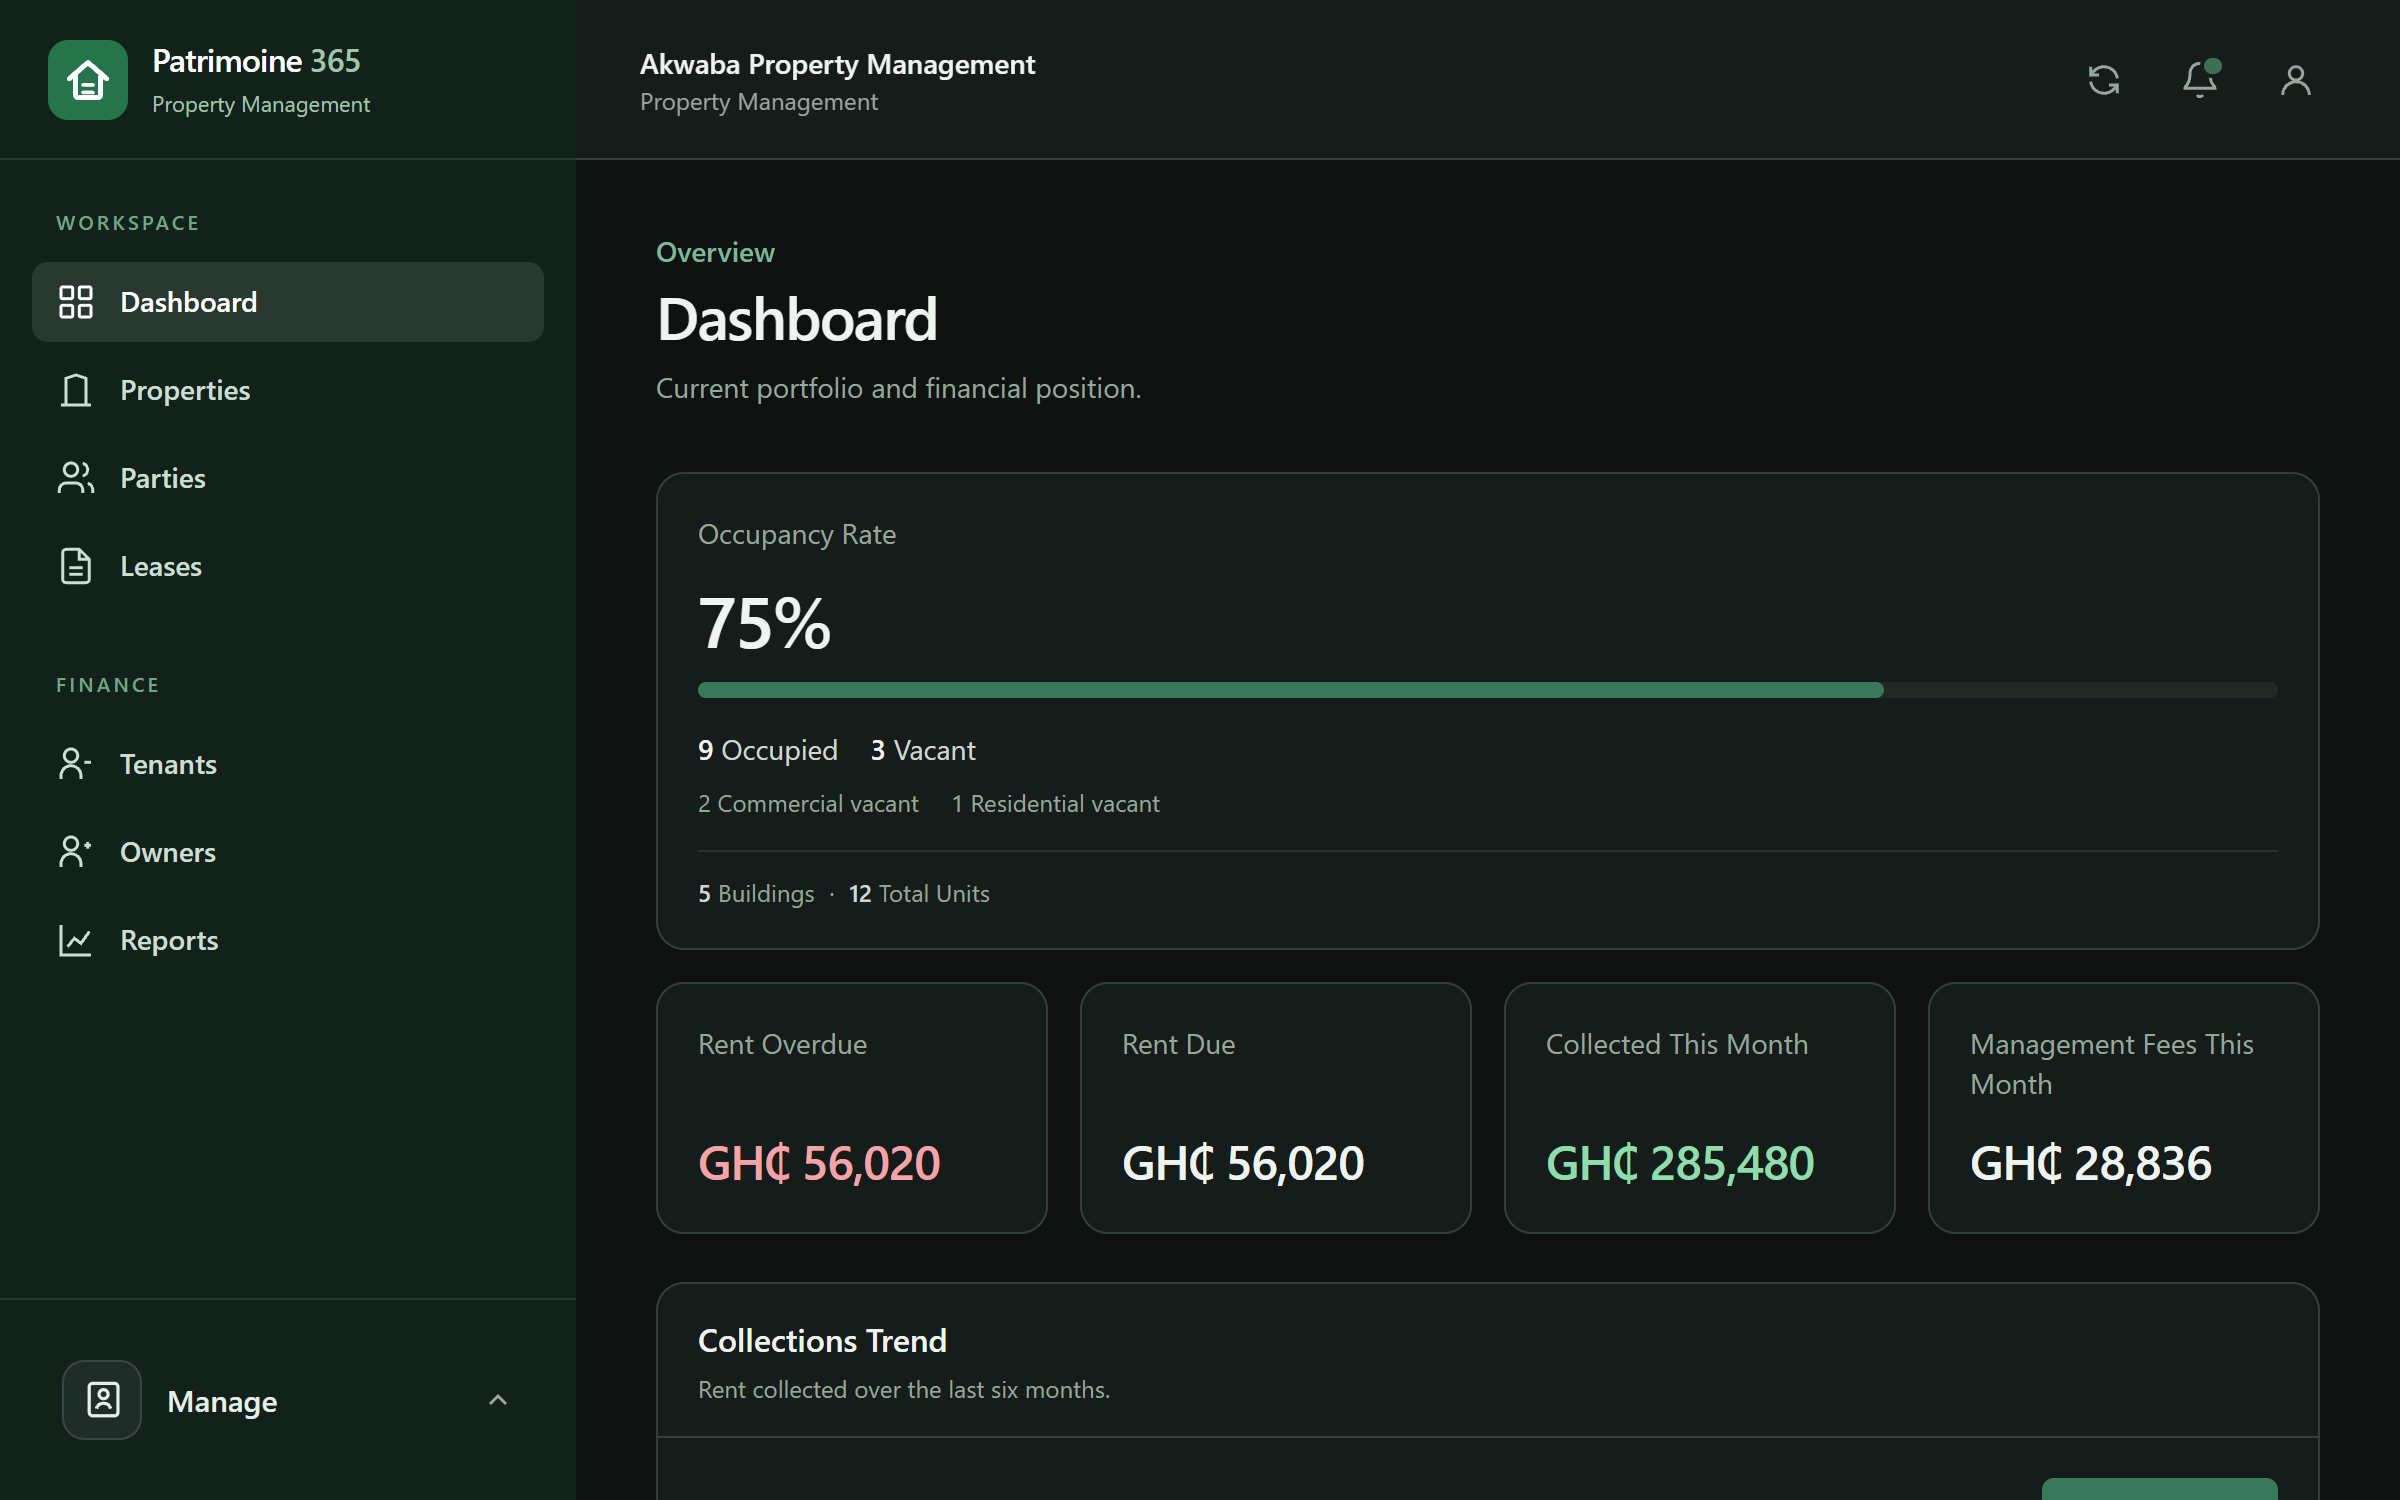
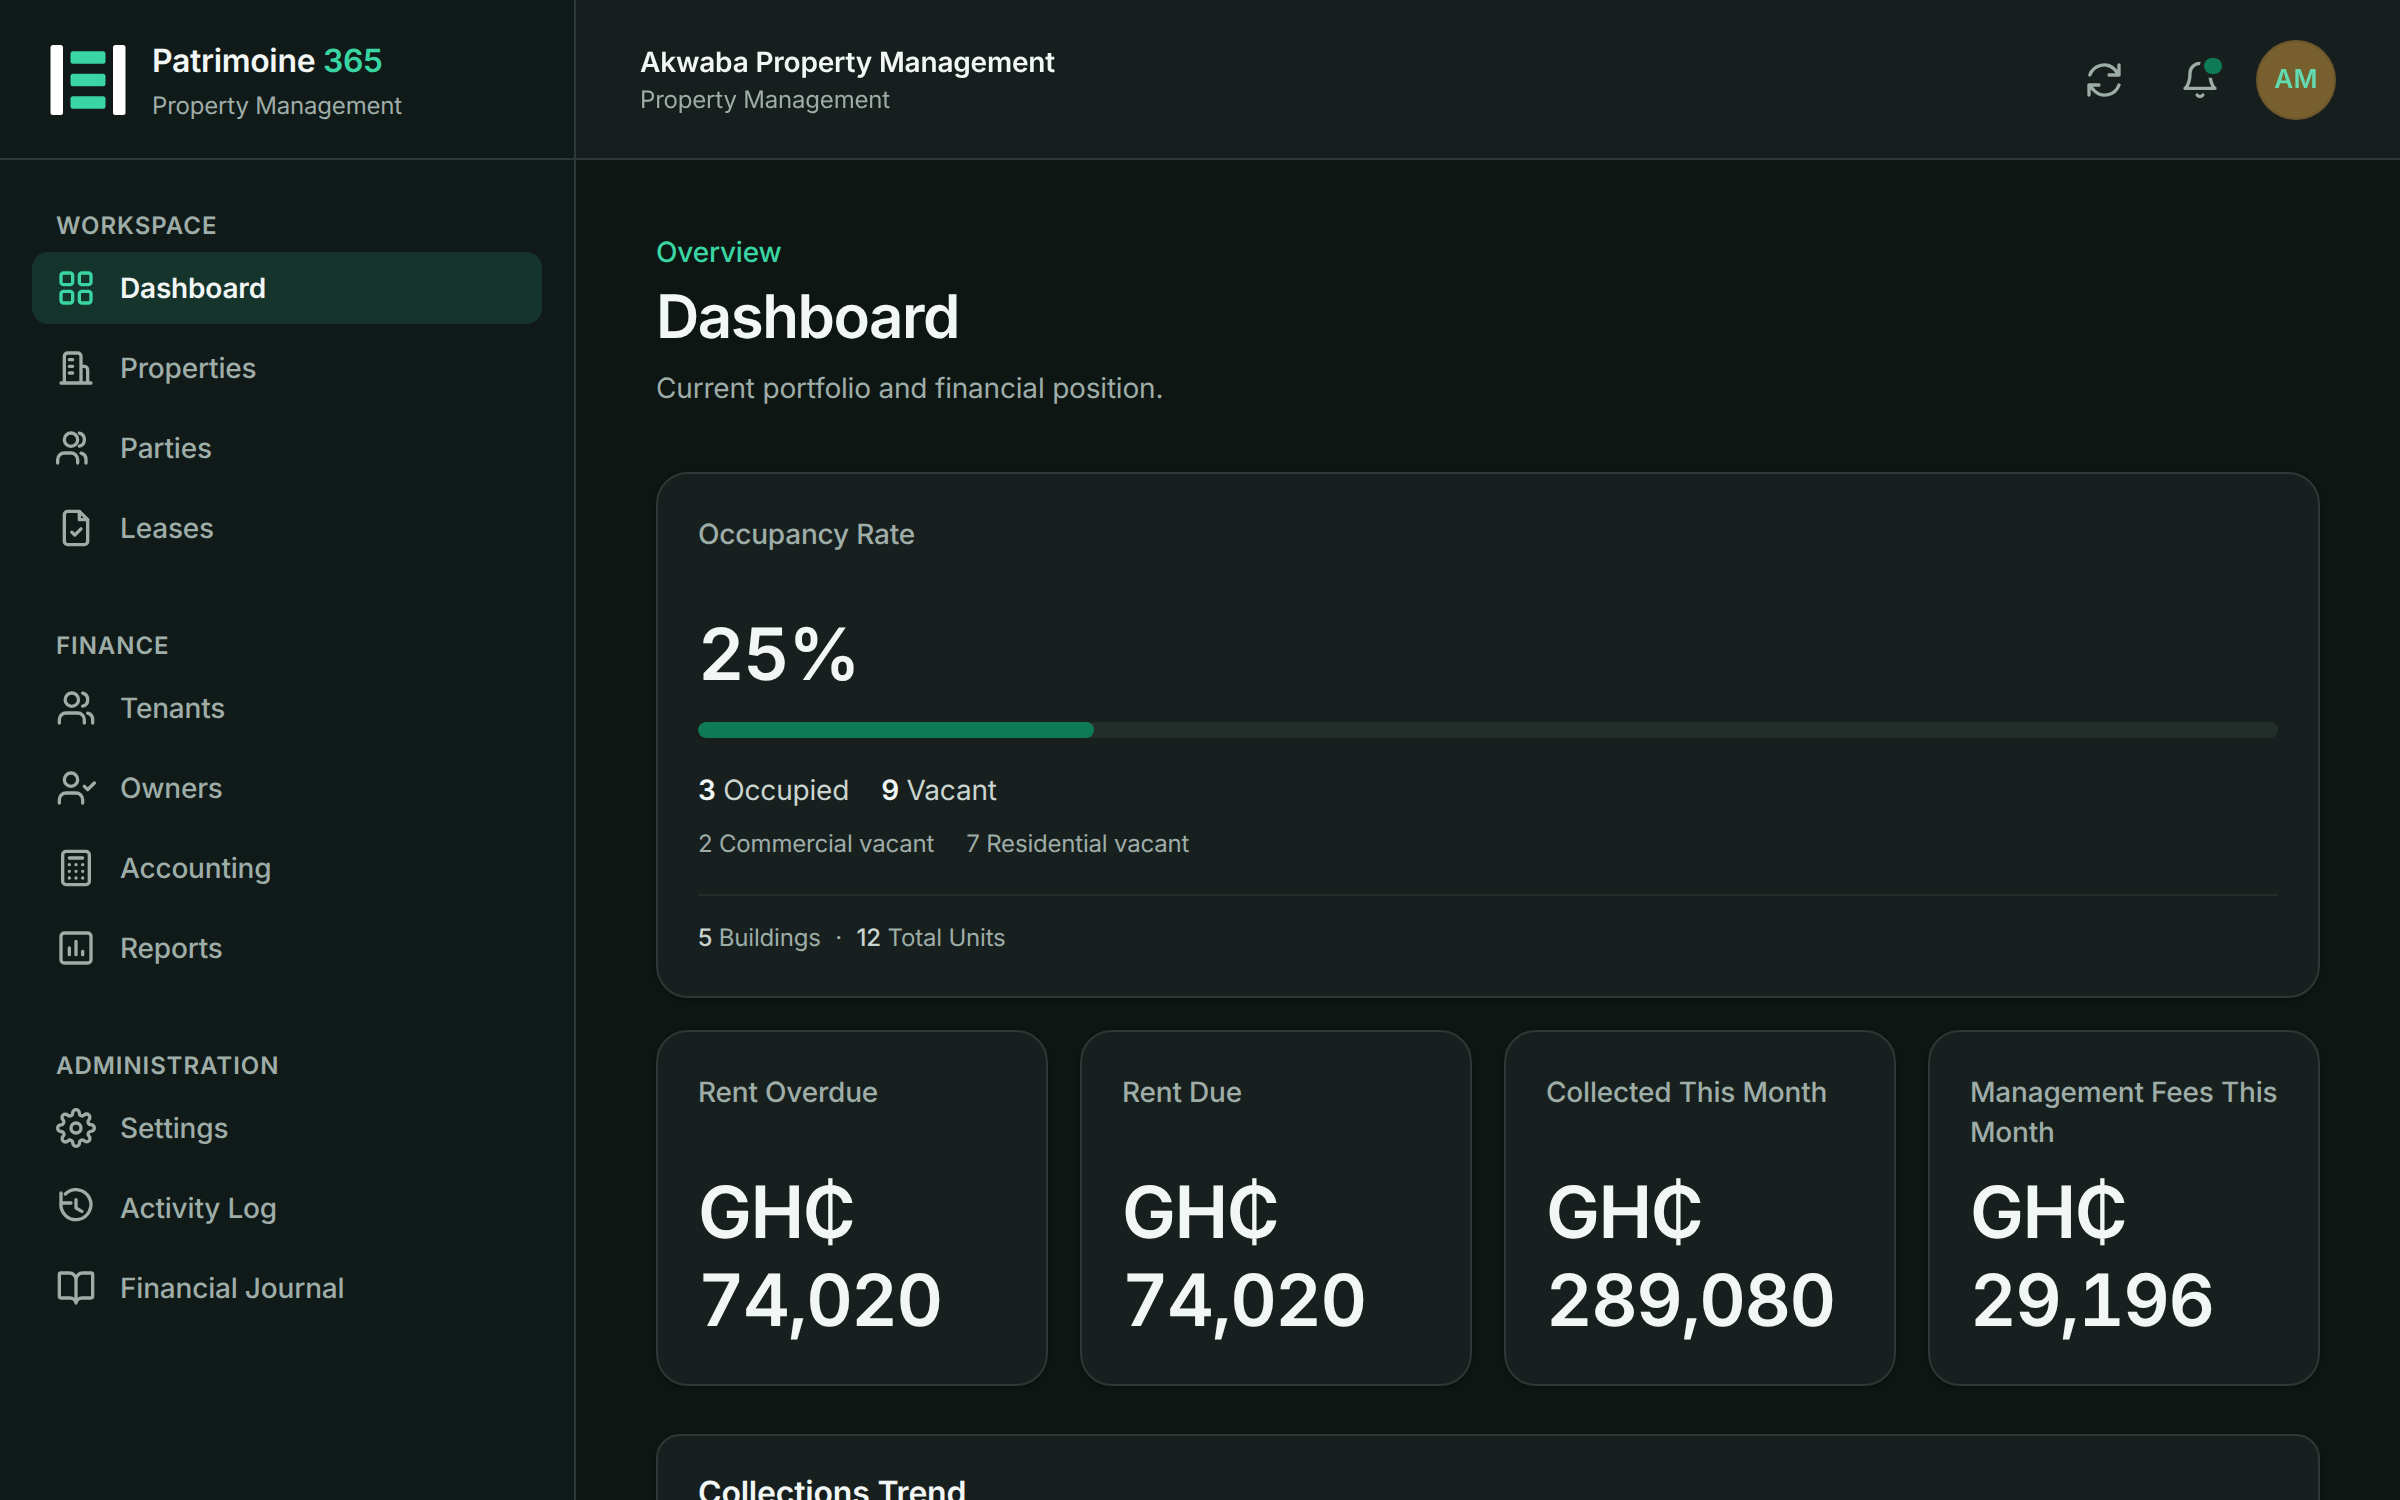
The sign-in preview shows the redesigned product
The four auth-preview images are the picture of the application inside the
sign-in hero. They were captured on 26 August against the old brand ramp —
their sidebar pixel is #12221b, a colour the product no longer contains —
so the first thing a customer saw was the new identity framing a photograph
of the old one.

They are the dashboard at 2400x1500 in both themes and both languages,
which is exactly what the marketing capture already produces, so they are
that capture rather than a fifth screenshot pipeline.

Also corrects a comment I had written wrong: Instrument Sans WAS loaded.
laravel-vite-plugin's font helper fetched it at build time and self-hosted
it from the bundle. That mechanism is gone with the typeface.

diff --git a/resources/css/fonts.css b/resources/css/fonts.css
@@ -4,9 +4,11 @@
 |--------------------------------------------------------------------------
 |
 | Untitled UI is drawn on Inter, and every metric in the type scale below
-| assumes it. The application previously named 'Instrument Sans' in its font
-| stack but never loaded the file, so it had always rendered in whatever the
-| operating system supplies.
+| assumes it. The application ran on Instrument Sans before this, fetched at
+| build time by laravel-vite-plugin's font helper and self-hosted from the
+| bundle. That mechanism is gone with the typeface: two files here carry
+| every weight, and they are checked in rather than downloaded during a
+| build.
 |
 | The font is served from our own origin rather than fonts.googleapis.com.
 | A Google Fonts stylesheet sends every visitor's IP address to Google
